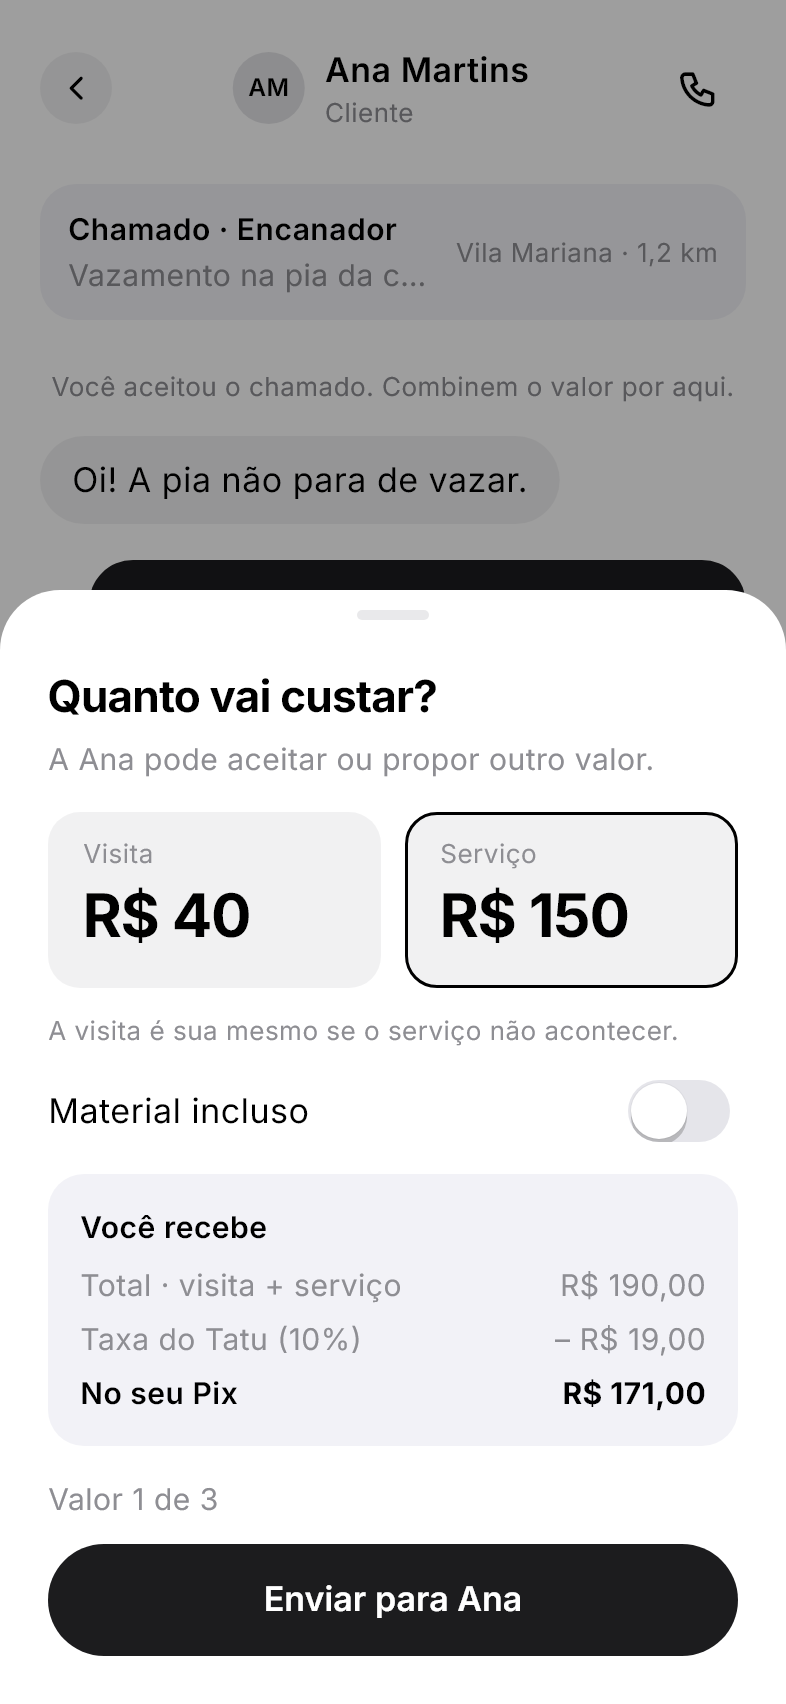
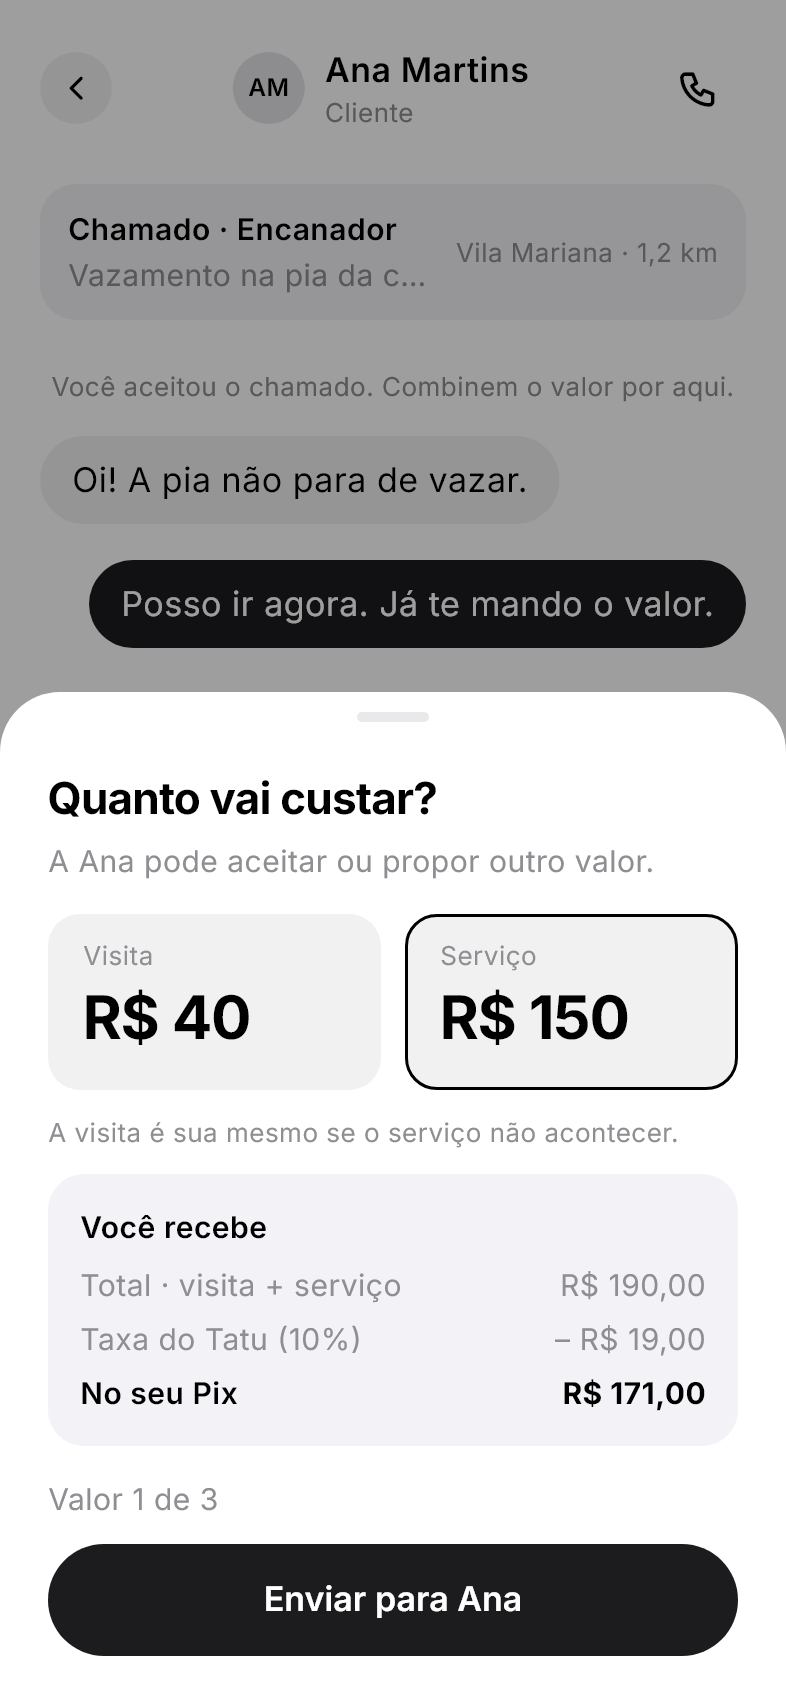
Tira o Material incluso da folha de valor

diff --git a/app/lib/features/profissional/chamado/enviar_valor_sheet.dart b/app/lib/features/profissional/chamado/enviar_valor_sheet.dart
@@ -1,4 +1,3 @@
-import 'package:flutter/cupertino.dart';
 import 'package:flutter/material.dart';
 
 import '../../../core/theme/tatu_colors.dart';
@@ -14,15 +13,11 @@ class ValorProposto {
   const ValorProposto({
     required this.visita,
     required this.servico,
-    this.material = false,
   });
 
   /// Fica com o profissional mesmo se o serviço não acontecer.
   final double visita;
   final double servico;
-
-  /// O material já está incluso no valor.
-  final bool material;
 
   double get total => visita + servico;
 
@@ -60,7 +55,6 @@ class _FolhaValorState extends State<_FolhaValor> {
   final _servico = TextEditingController();
   final _focoVisita = FocusNode();
   final _focoServico = FocusNode();
-  bool _material = false;
 
   @override
   void initState() {
@@ -86,7 +80,6 @@ class _FolhaValorState extends State<_FolhaValor> {
     final valor = ValorProposto(
       visita: _ler(_visita),
       servico: _ler(_servico),
-      material: _material,
     );
     final total = valor.total;
     final taxa = total * taxaTatu;
@@ -142,23 +135,6 @@ class _FolhaValorState extends State<_FolhaValor> {
                 const Text(
                   'A visita é sua mesmo se o serviço não acontecer.',
                   style: TatuTexto.nota,
-                ),
-                const SizedBox(height: TatuMedidas.entreItens),
-                Row(
-                  children: [
-                    const Expanded(
-                      child: Text(
-                        'Material incluso',
-                        style: TextStyle(fontSize: 17),
-                      ),
-                    ),
-                    CupertinoSwitch(
-                      value: _material,
-                      activeTrackColor: TatuColors.online,
-                      inactiveTrackColor: TatuColors.trilho,
-                      onChanged: (v) => setState(() => _material = v),
-                    ),
-                  ],
                 ),
                 const SizedBox(height: TatuMedidas.entreItens),
                 Container(

diff --git a/app/lib/features/cliente/mensagens/cartao_valor.dart b/app/lib/features/cliente/mensagens/cartao_valor.dart
@@ -13,11 +13,10 @@ import '../../../shared/widgets/opcao_selecionavel.dart';
 /// Cada lado pode propor até 3 valores.
 const maxRodadasValor = 3;
 
-/// "Visita R$ 40 · Serviço R$ 150" (e "material incluso", se for).
+/// "Visita R$ 40 · Serviço R$ 150".
 String detalheValor(ValorProposta v) => [
   if (v.visita > 0) 'Visita ${reaisInteiros(v.visita)}',
   'Serviço ${reaisInteiros(v.servico)}',
-  if (v.material) 'material incluso',
 ].join(' · ');
 
 /// C17 · Cartão do valor que o profissional enviou: total, forma de

diff --git a/app/lib/data/conversas.dart b/app/lib/data/conversas.dart
@@ -34,7 +34,6 @@ class ValorProposta {
   ValorProposta({
     required this.visita,
     required this.servico,
-    this.material = false,
     this.rodada = 1,
     this.situacao = SituacaoValor.aguardandoVoce,
     this.pedido,
@@ -42,7 +41,6 @@ class ValorProposta {
 
   double visita;
   double servico;
-  bool material;
   int rodada;
   SituacaoValor situacao;
 
